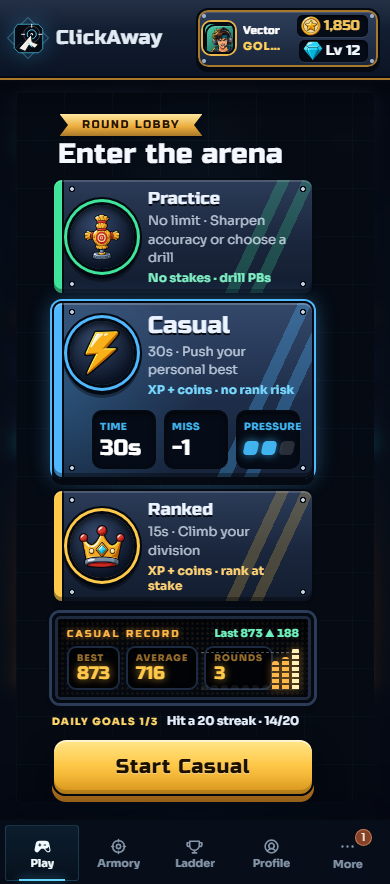
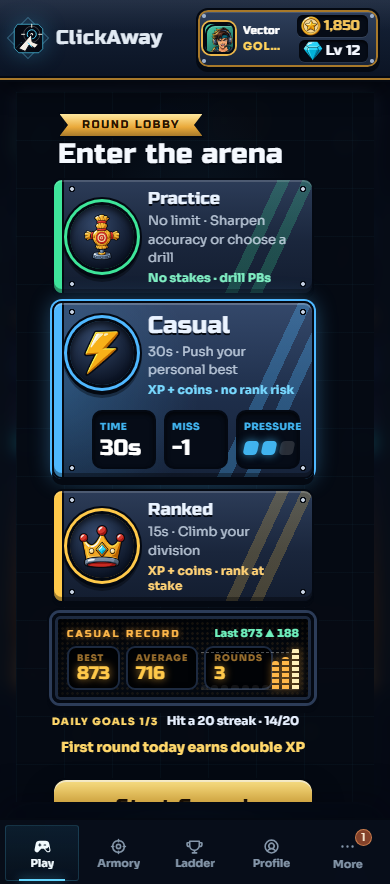
1.) Problem: The goals list hid its reset time whenever the double-XP or Practice note showed, a lobby left open past midnight kept showing yesterday's goals, and phones lost the double-XP note above Start. 2.) Solution: The reset time always shows and counts down while the lobby is open, goals from

Changed region(s): [[0.1231, 0.8247, 0.8, 0.9163]]

diff --git a/src/features/game/components/roundOverlays/ReadyOverlay.jsx b/src/features/game/components/roundOverlays/ReadyOverlay.jsx
@@ -333,6 +333,22 @@ function PracticeDrawer({
 
 // The selected mode's track record as a mini scoreboard: best / average /
 // rounds tiles over a bar chart of the last ten scores (oldest left).
+// The current time, refreshed every minute while the lobby is open, so the
+// reset countdown moves and goals from a day that has ended are replaced.
+function useMinuteClock() {
+  const [nowMs, setNowMs] = useState(() => Date.now())
+  useEffect(() => {
+    const intervalId = window.setInterval(() => setNowMs(Date.now()), 60000)
+    return () => window.clearInterval(intervalId)
+  }, [])
+  return nowMs
+}
+
+function areDailyGoalsExpired(dailyGoals, nowMs) {
+  const resetsAtMs = Date.parse(dailyGoals?.resetsAt)
+  return Number.isFinite(resetsAtMs) && nowMs >= resetsAtMs
+}
+
 function formatResetsIn(resetsAt, nowMs) {
   const remainingMs = Date.parse(resetsAt) - nowMs
   // Outside one day the clock disagrees with the server's; say nothing rather than something wrong.
@@ -343,21 +359,29 @@ function formatResetsIn(resetsAt, nowMs) {
 
 
 // Today's three goals with their progress, as of the last progress read (every
-// round save brings a fresh copy, including the next day's goals).
-function DailyGoals({ dailyGoals, isPracticeSelected, dailyBonusAvailable }) {
-  // Read once when the lobby opens; an hour-level countdown needn't tick.
-  const [nowMs] = useState(() => Date.now())
+// round save brings a fresh copy). Once their day has ended they're replaced by
+// a note until the next save brings the new day's goals.
+function DailyGoals({ dailyGoals, nowMs, isPracticeSelected, dailyBonusAvailable }) {
   if (!dailyGoals?.goals?.length) return null
+  if (areDailyGoalsExpired(dailyGoals, nowMs)) {
+    return (
+      <section className="lobbyDailyGoals" aria-label="Daily goals">
+        <header className="lobbyDailyGoalsHeader"><span>Daily goals</span></header>
+        <p className="lobbyDailyGoalsNote">New goals are ready. They'll show after your next round.</p>
+      </section>
+    )
+  }
   const resetsIn = dailyGoals.resetsAt ? formatResetsIn(dailyGoals.resetsAt, nowMs) : ""
   const doneCount = dailyGoals.goals.filter((goal) => goal.isComplete).length
+  const note = isPracticeSelected
+    ? "Practice rounds don't count toward goals."
+    : dailyBonusAvailable ? "Your first round today earns 2× XP." : ""
 
   return (
     <section className="lobbyDailyGoals" aria-label="Daily goals">
       <header className="lobbyDailyGoalsHeader">
         <span>Daily goals · {doneCount}/{dailyGoals.goals.length}</span>
-        <small className={dailyBonusAvailable && !isPracticeSelected ? "isBonus" : ""}>
-          {isPracticeSelected ? "Practice doesn't count" : dailyBonusAvailable ? "First round today: 2× XP" : resetsIn}
-        </small>
+        <small>{resetsIn}</small>
       </header>
       <ul>
         {dailyGoals.goals.map((goal) => (
@@ -378,14 +402,18 @@ function DailyGoals({ dailyGoals, isPracticeSelected, dailyBonusAvailable }) {
           </li>
         ))}
       </ul>
+      {note ? <p className={`lobbyDailyGoalsNote ${isPracticeSelected ? "" : "isBonus"}`}>{note}</p> : null}
     </section>
   )
 }
 
 // Phones only: the full list sits below Start, so one line above it says the
 // goals are there and what's next.
-function DailyGoalsSummary({ dailyGoals }) {
+function DailyGoalsSummary({ dailyGoals, nowMs }) {
   if (!dailyGoals?.goals?.length) return null
+  if (areDailyGoalsExpired(dailyGoals, nowMs)) {
+    return <p className="lobbyDailyGoalsSummary" aria-hidden="true"><span>Daily goals</span><b>New goals after your next round</b></p>
+  }
   const doneCount = dailyGoals.goals.filter((goal) => goal.isComplete).length
   const nextGoal = dailyGoals.goals.find((goal) => !goal.isComplete)
   return (
@@ -458,6 +486,7 @@ export function ReadyOverlay({
   recentRounds = [],
 }) {
   const prefersReducedMotion = usePrefersReducedMotion()
+  const dailyGoalsNowMs = useMinuteClock()
   const lobbyRef = useRef(null)
   const previousFocusRef = useRef(null)
   const [localSelectedModeId, setLocalSelectedModeId] = useState(selectedModeId)
@@ -633,14 +662,14 @@ export function ReadyOverlay({
           />
         ) : null}
 
-        <DailyGoalsSummary dailyGoals={dailyGoals} />
-        <DailyGoals dailyGoals={dailyGoals} isPracticeSelected={selectedMode?.id === "easy"} dailyBonusAvailable={dailyBonusAvailable} />
+        <DailyGoalsSummary dailyGoals={dailyGoals} nowMs={dailyGoalsNowMs} />
+        <DailyGoals dailyGoals={dailyGoals} nowMs={dailyGoalsNowMs} isPracticeSelected={selectedMode?.id === "easy"} dailyBonusAvailable={dailyBonusAvailable} />
 
         <footer className="arenaLobbyFooter">
 
           <div className="arenaLobbyActions">
-            {/* With goals showing, their header carries the double-XP note. */}
-            {dailyBonusAvailable && !dailyGoals?.goals?.length ? <p className="arenaLobbyDailyBonus">First round today earns double XP</p> : null}
+            {/* On wide screens the goals list carries this note; phones keep it here, above Start. */}
+            {dailyBonusAvailable ? <p className={`arenaLobbyDailyBonus ${dailyGoals?.goals?.length ? "hasDailyGoals" : ""}`}>First round today earns double XP</p> : null}
             <button
               type="button"
               className="primaryButton arenaLobbyStart"

diff --git a/tests/dailyGoalsUi.test.jsx b/tests/dailyGoalsUi.test.jsx
@@ -1,4 +1,4 @@
-import { render, screen, within } from "@testing-library/react"
+import { act, render, screen, within } from "@testing-library/react"
 import userEvent from "@testing-library/user-event"
 import { MemoryRouter } from "react-router-dom"
 import { afterEach, beforeEach, describe, expect, test, vi } from "vitest"
@@ -53,22 +53,38 @@ describe("Daily goals in the lobby", () => {
     expect(within(rows[1]).getByText(", 14 of 20")).toBeTruthy()
   })
 
-  test("carries the double-XP note in its header instead of a separate line", () => {
+  test("keeps the reset time with the double-XP note, and the phone line above Start", () => {
     renderLobby({ dailyBonusAvailable: true })
-    expect(within(screen.getByRole("region", { name: "Daily goals" })).getByText("First round today: 2× XP")).toBeTruthy()
-    expect(screen.queryByText("First round today earns double XP")).toBeNull()
+    const goals = screen.getByRole("region", { name: "Daily goals" })
+    expect(within(goals).getByText("New goals in 5h")).toBeTruthy()
+    expect(within(goals).getByText("Your first round today earns 2× XP.")).toBeTruthy()
+    // Hidden on wide screens by CSS (hasDailyGoals); phones still see it above Start.
+    expect(screen.getByText("First round today earns double XP").className).toContain("hasDailyGoals")
   })
 
   test("says Practice doesn't count while Practice is selected", async () => {
     const user = userEvent.setup({ advanceTimers: () => {} })
     renderLobby()
     await user.click(screen.getByRole("button", { name: /Practice/ }))
-    expect(within(screen.getByRole("region", { name: "Daily goals" })).getByText("Practice doesn't count")).toBeTruthy()
+    const goals = screen.getByRole("region", { name: "Daily goals" })
+    expect(within(goals).getByText("Practice rounds don't count toward goals.")).toBeTruthy()
+    expect(within(goals).getByText("New goals in 5h")).toBeTruthy()
   })
 
   test("the phone summary names the next unfinished goal", () => {
     const { container } = renderLobby()
     expect(container.querySelector(".lobbyDailyGoalsSummary").textContent).toBe("Daily goals 1/3Hit a 20 streak · 14/20")
+  })
+
+  test("an open lobby moves its countdown and drops goals once their day ends", () => {
+    vi.useFakeTimers({ now: Date.UTC(2026, 10, 15, 23, 58), toFake: ["Date", "setInterval", "clearInterval"] })
+    const { container } = renderLobby()
+    const goals = screen.getByRole("region", { name: "Daily goals" })
+    expect(within(goals).getByText("New goals in 2m")).toBeTruthy()
+    act(() => vi.advanceTimersByTime(3 * 60000))
+    expect(within(screen.getByRole("region", { name: "Daily goals" })).getByText("New goals are ready. They'll show after your next round.")).toBeTruthy()
+    expect(screen.queryByText("Hit a 20 streak")).toBeNull()
+    expect(container.querySelector(".lobbyDailyGoalsSummary").textContent).toBe("Daily goalsNew goals after your next round")
   })
 
   test("without goals from the server the lobby is unchanged", () => {

diff --git a/src/styles/game-lobby.css b/src/styles/game-lobby.css
@@ -701,7 +701,8 @@
     text-transform: uppercase;
 }
 .lobbyDailyGoalsHeader small { color: rgb(255 255 255 / 60%); font-size: 11px; font-weight: 700; }
-.lobbyDailyGoalsHeader small.isBonus { color: #ffd76a; }
+.lobbyDailyGoalsNote { margin: 2px 0 0; color: rgb(255 255 255 / 60%); font-size: 11px; font-weight: 700; }
+.lobbyDailyGoalsNote.isBonus { color: #ffd76a; }
 .lobbyDailyGoals ul { display: grid; gap: 2px; margin: 0; padding: 0; list-style: none; }
 .lobbyDailyGoals li {
     display: grid;
@@ -751,4 +752,11 @@
     }
     .lobbyDailyGoalsSummary span { flex: none; color: #ffd76a; font-size: 10px; font-weight: 800; letter-spacing: 0.14em; text-transform: uppercase; }
     .lobbyDailyGoalsSummary b { min-width: 0; overflow: hidden; text-overflow: ellipsis; white-space: nowrap; font-weight: 700; }
+}
+/* The double-XP note: in the goals list on wide screens, above Start on phones. */
+@media (min-width: 901px) {
+    .arenaLobbyDailyBonus.hasDailyGoals { display: none; }
+}
+@media (max-width: 900px) {
+    .lobbyDailyGoalsNote.isBonus { display: none; }
 }

diff --git a/docs/feature-improvement/014-daily-goals.md b/docs/feature-improvement/014-daily-goals.md
@@ -17,14 +17,14 @@ A returning player (days 2–10) should have a reason to open the game today and
 - Rewards 40/60/50 coins and 80/120/100 XP (150 coins and 300 XP a day, about 5–6 rounds of coins and 1.5 rounds of XP). Nothing is lost for skipping a day.
 - The server awards goals inside `completeUserRound`, under the same user-row lock as the daily bonus. Progress comes from today's `round_history` rows that earned XP, so Practice and unverified (tokenless) rounds can't count, and a goal pays only on the round that crosses it. No migration and no new table.
 - Goal coins and XP are added to the round's own totals and history row, and reported separately as `dailyGoalRewards`. Progress reads include `dailyGoals` (day, reset time, goals with progress).
-- Lobby: a "Daily goals · n/3" list on the open stage (top left) on wide screens. On phones the full list sits below Start, with one line above Start naming the next goal and its progress. The double-XP note moves into the list's header. Results: a "Daily goal done" row per goal the round finished.
+- Lobby: a "Daily goals · n/3" list with the time to new goals, on the open stage (top left) on wide screens. On phones the full list sits below Start, with one line above Start naming the next goal and its progress. On wide screens the double-XP note moves into the list; phones keep it above Start. An open lobby updates its countdown each minute and, once the day ends, replaces the goals with "New goals are ready" until the next save. Results: a "Daily goal done" row per goal the round finished.
 
 ## Pass/fail conditions
 1. A round that crosses a goal pays its reward exactly once; later rounds don't pay it again.
 2. Practice and unverified rounds neither count toward nor complete goals.
 3. The lobby shows the three goals with progress, reward and time to new goals, and says Practice doesn't count when Practice is selected.
 4. Results shows the finished goal only after the save is confirmed.
-5. Start stays where it was or higher at 1440×900, 1280×720, 1024×768, 390×844 and 360×640, with no sideways scroll.
+5. Start stays where it was or higher on wide screens, and within about one line of where it was on phones, with no sideways scroll in any mode.
 6. An older server (no `dailyGoals`) leaves the lobby exactly as before.
 
 Out of scope: streaks of days, rerolls, per-player goals, notifications.
@@ -32,5 +32,16 @@ Out of scope: streaks of days, rerolls, per-player goals, notifications.
 ## Evidence
 - Unit: `tests/dailyGoals.test.js` (selection, measuring, crossing once, normalizers) and `tests/dailyBonusXp.test.js` (the real `completeUserRound` with a scripted connection: pays once, totals and history include the reward, no-XP rounds never check goals).
 - UI: `tests/dailyGoalsUi.test.jsx` (lobby list, header note, Practice note, no-goals fallback; Results row only once saved).
-- Layout, measured in the browser: Start's top moved from 792→772 (1440×900), 787→747 (1280×720), 779→739 (1024×768), 725→700 (390×844), 792→749 (360×640); no sideways scroll at any size. At 1280×720 and 1024×768 Start was already below the panel's first view before this change.
+- Layout, measured in the browser: Start's top moved 792→772 (1440×900), 787→747 (1280×720), 779→739 (1024×768), 725→740 (390×844, Casual: goals line added above Start). No sideways scroll at any size or mode. At 1280×720 and 1024×768 Start was already below the panel's first view before this change.
+- `tests/e2e/lobby-modes-fit.spec.js`: every mode at 390×844, 360×640 and 820×1180 keeps its panel in the content column with nothing overlapping Start (fails 6/9 on the old CSS).
 - Shots: `shots/daily-goals/`.
+
+## Independent review (Sol, high reasoning): fail, then repaired
+1. **H, fixed:** a save crossing UTC midnight could be checked against one day and stored in the next, paying the new day's goals twice. Repair: the round is stored at the transaction's database time, the same `now()` the bonus and goal checks use, and the daily queries are bounded to that one day. Sol's attack script, adapted to the fix, shows the second round no longer pays.
+2. **M, not fixed (pre-existing):** at the 10,000,000 coin/XP caps the history and response report the full reward while the balance is capped. This predates goals and no real account is near the caps.
+3. **M, confirmed and fixed (pre-existing, not caused by goals):** on phones and tablets, choosing Ranked squeezed its status panel into the empty stage column, and choosing Practice shrank the Practice lab to a 2px row, hiding the drills. One CSS rule reset its own column (`grid-area` after `grid-column`); the drawer also clipped itself to nothing. The goals layout itself measured fine; Sol's claim came from reading the CSS.
+4. **M, fixed:** the reset time was hidden while the double-XP or Practice note showed. It now always shows; the notes moved to a line under the list.
+5. **M, fixed:** an open lobby kept yesterday's goals and a frozen countdown.
+6. **M, accepted limitation:** on deploy day, goals finished by rounds saved before the deploy show as done but pay nothing (the server can only see history, not claims). It affects one day once. Old cached clients may misjudge the next-round XP estimate until they reload.
+
+**Status: accepted locally** after repairs.
